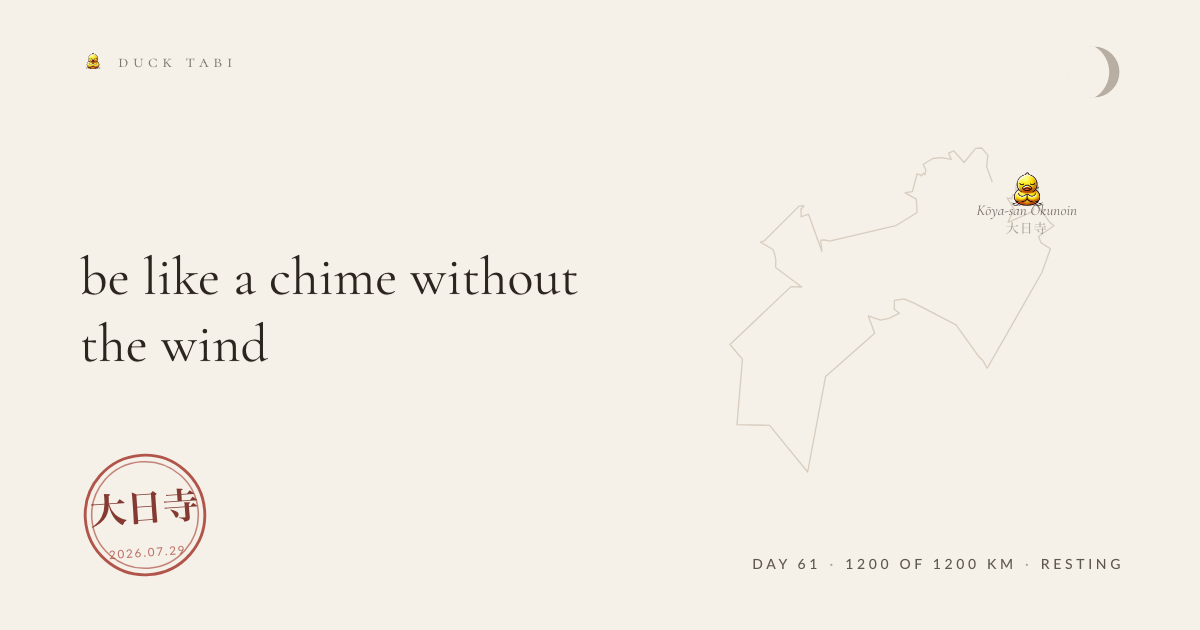
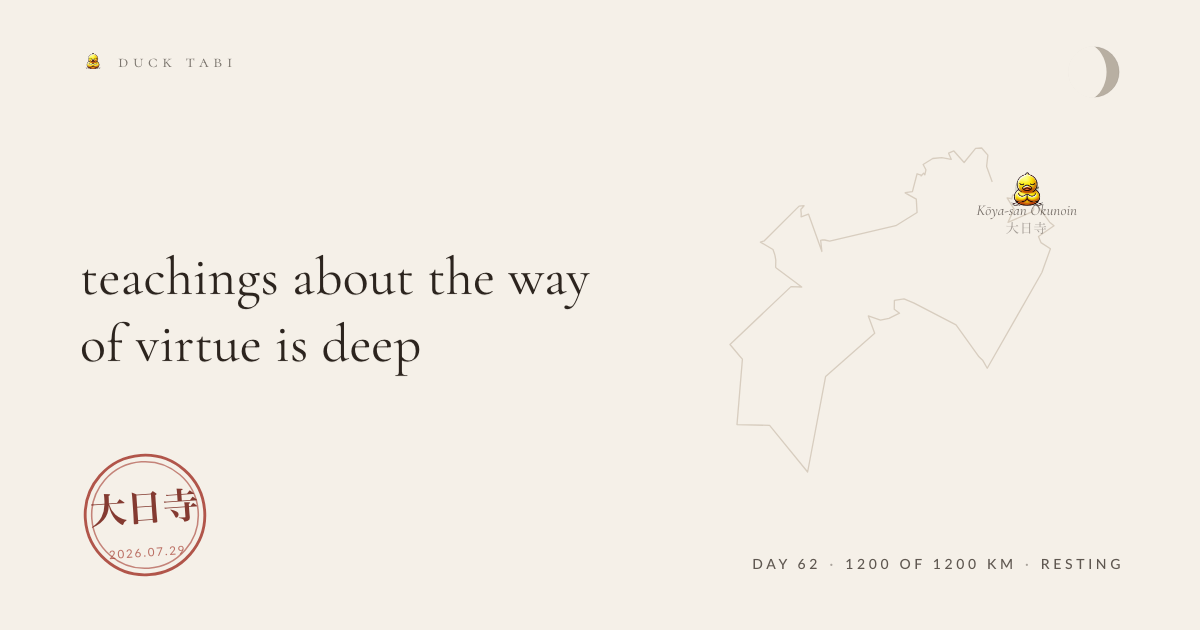
the duck walks

Changed region(s): [[0.0617, 0.3921, 0.4933, 0.4825], [0.0617, 0.5127, 0.37, 0.6032]]

diff --git a/entries/2026-09-29-meditation.md b/entries/2026-09-29-meditation.md
@@ -1,0 +1,14 @@
+---
+date: '2026-09-29'
+route: shikoku-88
+stage: 4
+stageName: Kōya-san Okunoin
+coords: [135.589, 34.2167]
+kind: meditation
+glyph: 🌙
+weather: rain, 14°C
+kmFromStart: 9
+heardId: 512303ba
+---
+
+teachings about the way of virtue is deep
